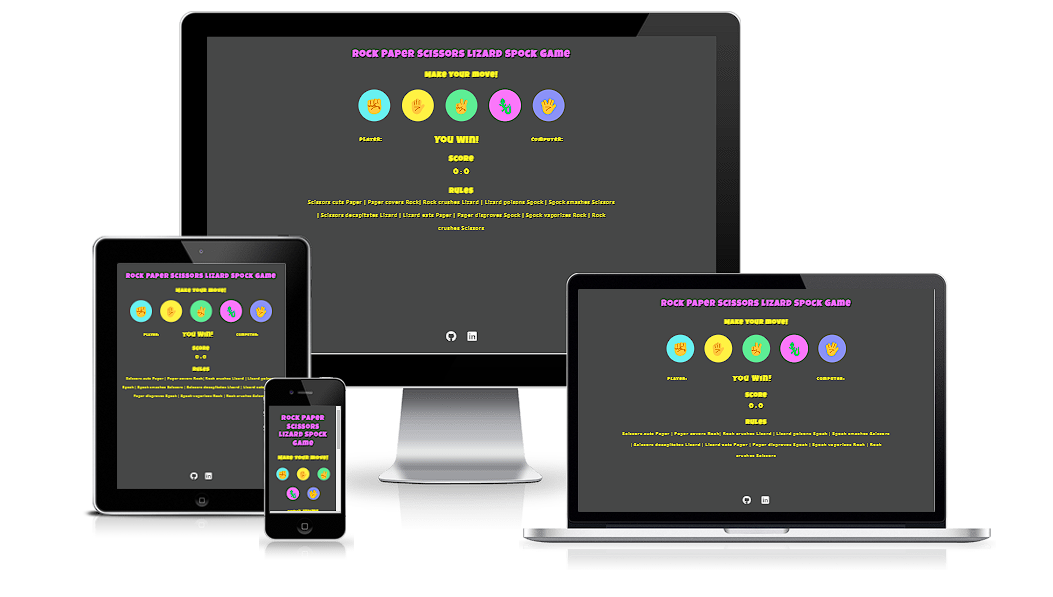
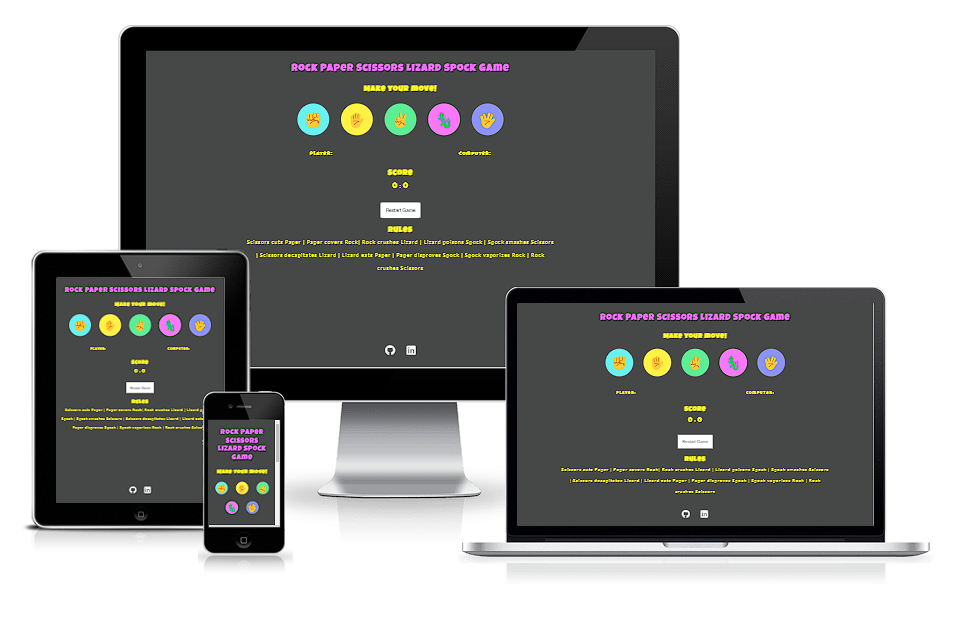
Update project features in readme

Changed region(s): [[0.0304, 0.0, 0.9738, 0.9347]]

diff --git a/README.md b/README.md
@@ -103,6 +103,13 @@ Visit the deployed site: [Rock Paper Scissors Lizard Spock Game](https://natasam
 
   ![](docs/wireframes/score.png)
 
+**Restart Game**
+
+  * The restart button allows user to click on it and start a new game from beginning.
+  * This feature is valuable to user because it gives clear instruction to user where he needs to click in order to restart the game instead of clicking on reload page button. 
+
+  ![](docs/wireframes/restart.png)
+
 **Rules**
 
   * Beneath the score are displayed rules of the game Rock Paper Scissors Lizard Spock.
@@ -119,8 +126,7 @@ Visit the deployed site: [Rock Paper Scissors Lizard Spock Game](https://natasam
 
 ### Future Implementations
 
-  * Making a limited number of rounds, for example 5, and announce a winner.
-  * Set up a restart game button. 
+  * Making a limited number of rounds and announce a winner.   
 
 ## Technologies Used
 
